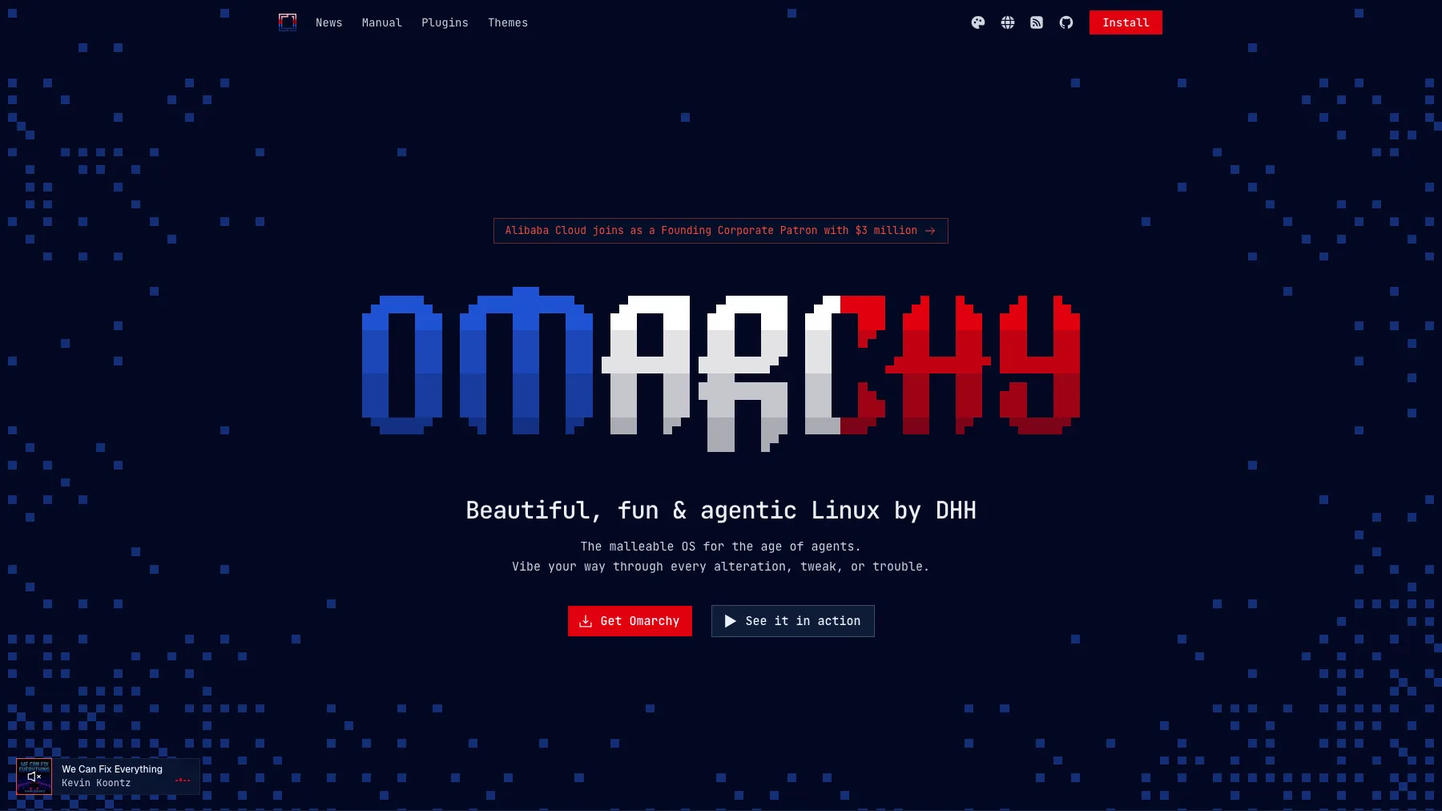
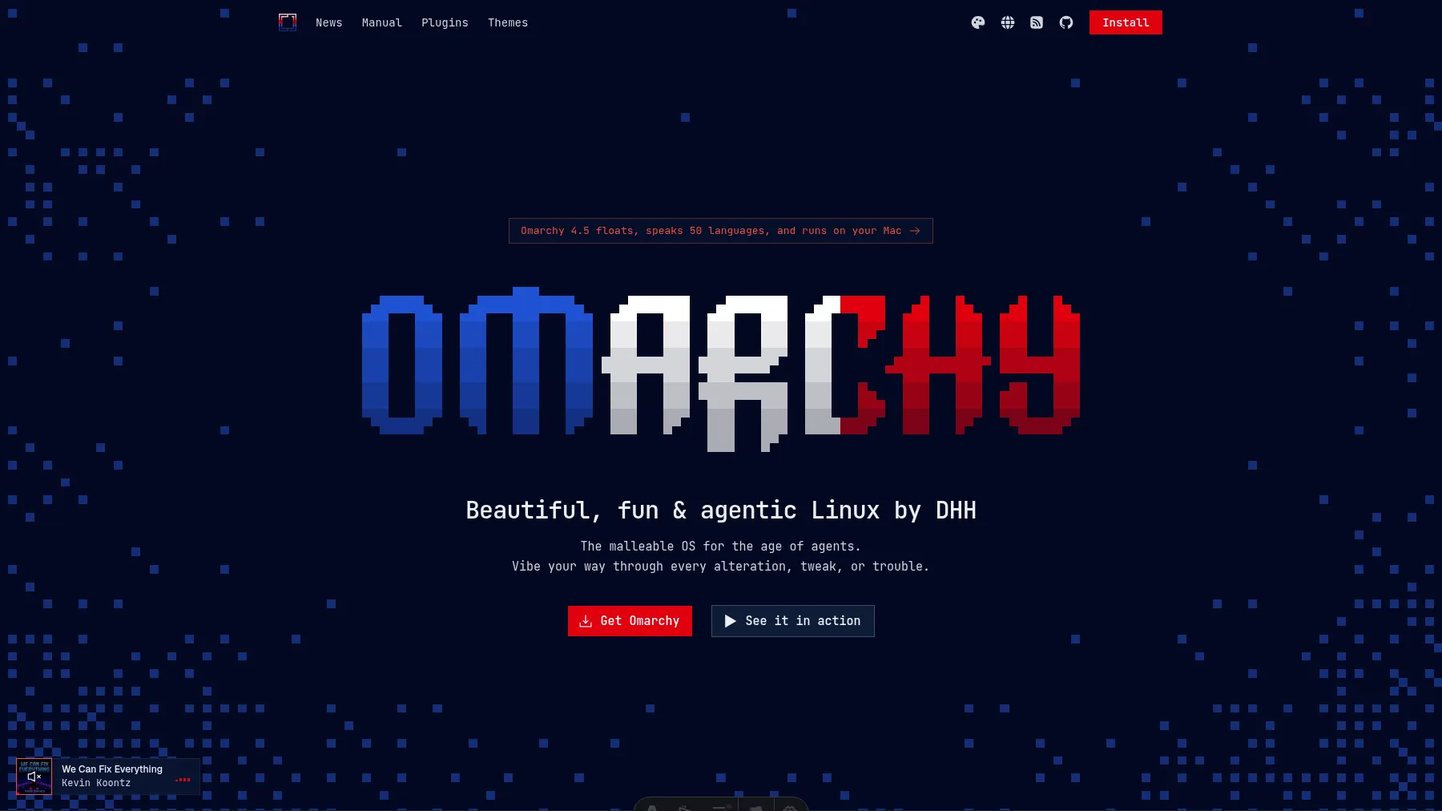
Shade full-height runs of a flag like the stock wordmark
A wordmark in one colour, a stripe or a hoist the word's full height
stepped in four even shades, where the stock wordmarks have five. Such
runs now take the stock bands, four, three, four, three and five rows,
from one shared list that the stock wordmark reads too. Shorter bands
keep their even steps. The 26 previews this changes are retaken.

diff --git a/src/national-themes.css b/src/national-themes.css
@@ -32,7 +32,7 @@ html[data-theme='andorra'],
   --t-field-lit: #fedf00;
   --t-field-hover: #feea59;
   --t-field-crest: #fff5b3;
-  --t-word: conic-gradient(at 32.099% 26.316%, transparent 0deg 270deg, #2e4fd9 270deg), conic-gradient(at 32.099% 52.632%, transparent 0deg 270deg, #2844bd 270deg), conic-gradient(at 32.099% 78.947%, transparent 0deg 270deg, #2139a2 270deg), conic-gradient(at 32.099% 100%, transparent 0deg 270deg, #1b2f86 270deg), conic-gradient(at 67.901% 26.316%, transparent 0deg 270deg, #fedf00 270deg), conic-gradient(at 67.901% 52.632%, transparent 0deg 270deg, #d8bf05 270deg), conic-gradient(at 67.901% 78.947%, transparent 0deg 270deg, #b39e0a 270deg), conic-gradient(at 67.901% 100%, transparent 0deg 270deg, #8d7e0f 270deg), linear-gradient(to bottom, #d0103a 0% 26.316%, #b10f36 26.316% 52.632%, #930d33 52.632% 78.947%, #740c2f 78.947% 100%);
+  --t-word: conic-gradient(at 32.099% 21.053%, transparent 0deg 270deg, #2e4fd9 270deg), conic-gradient(at 32.099% 36.842%, transparent 0deg 270deg, #2947c4 270deg), conic-gradient(at 32.099% 57.895%, transparent 0deg 270deg, #243fb0 270deg), conic-gradient(at 32.099% 73.684%, transparent 0deg 270deg, #1f379b 270deg), conic-gradient(at 32.099% 100%, transparent 0deg 270deg, #1b2f86 270deg), conic-gradient(at 67.901% 21.053%, transparent 0deg 270deg, #fedf00 270deg), conic-gradient(at 67.901% 36.842%, transparent 0deg 270deg, #e2c704 270deg), conic-gradient(at 67.901% 57.895%, transparent 0deg 270deg, #c6ae07 270deg), conic-gradient(at 67.901% 73.684%, transparent 0deg 270deg, #a9960b 270deg), conic-gradient(at 67.901% 100%, transparent 0deg 270deg, #8d7e0f 270deg), linear-gradient(to bottom, #d0103a 0% 21.053%, #b90f37 21.053% 36.842%, #a20e34 36.842% 57.895%, #8b0d32 57.895% 73.684%, #740c2f 73.684% 100%);
   --t-word-cells: cols #2e4fd9 #2e4fd9 #2e4fd9 #2e4fd9 #2e4fd9 #2e4fd9 #2e4fd9 #2e4fd9 #2e4fd9 #2e4fd9 #2e4fd9 #2e4fd9 #2e4fd9 #2e4fd9 #2e4fd9 #2e4fd9 #2e4fd9 #2e4fd9 #2e4fd9 #2e4fd9 #2e4fd9 #2e4fd9 #2e4fd9 #2e4fd9 #2e4fd9 #2e4fd9 #fedf00 #fedf00 #fedf00 #fedf00 #fedf00 #fedf00 #fedf00 #fedf00 #fedf00 #fedf00 #fedf00 #fedf00 #fedf00 #fedf00 #fedf00 #fedf00 #fedf00 #fedf00 #fedf00 #fedf00 #fedf00 #fedf00 #fedf00 #fedf00 #fedf00 #fedf00 #fedf00 #fedf00 #fedf00 #d0103a #d0103a #d0103a #d0103a #d0103a #d0103a #d0103a #d0103a #d0103a #d0103a #d0103a #d0103a #d0103a #d0103a #d0103a #d0103a #d0103a #d0103a #d0103a #d0103a #d0103a #d0103a #d0103a #d0103a #d0103a #d0103a;
   color-scheme: dark;
   --t-hdr-text-2: #d1dbff;
@@ -65,7 +65,7 @@ html[data-theme='emirates'],
   --t-field-lit: #ff0000;
   --t-field-hover: #ff5959;
   --t-field-crest: #ffb3b3;
-  --t-word: conic-gradient(at 13.58% 26.316%, transparent 0deg 270deg, #ff0000 270deg), conic-gradient(at 13.58% 52.632%, transparent 0deg 270deg, #d90200 270deg), conic-gradient(at 13.58% 78.947%, transparent 0deg 270deg, #b30501 270deg), conic-gradient(at 13.58% 100%, transparent 0deg 270deg, #8c0701 270deg), linear-gradient(to bottom, #00732f 0% 15.789%, #006529 15.789% 31.579%, #ffffff 31.579% 52.632%, #dfe1e0 52.632% 68.421%, #5f5f5f 68.421% 84.211%, #525452 84.211% 100%);
+  --t-word: conic-gradient(at 13.58% 21.053%, transparent 0deg 270deg, #ff0000 270deg), conic-gradient(at 13.58% 36.842%, transparent 0deg 270deg, #e20200 270deg), conic-gradient(at 13.58% 57.895%, transparent 0deg 270deg, #c60300 270deg), conic-gradient(at 13.58% 73.684%, transparent 0deg 270deg, #a90501 270deg), conic-gradient(at 13.58% 100%, transparent 0deg 270deg, #8c0701 270deg), linear-gradient(to bottom, #00732f 0% 15.789%, #006529 15.789% 31.579%, #ffffff 31.579% 52.632%, #dfe1e0 52.632% 68.421%, #5f5f5f 68.421% 84.211%, #525452 84.211% 100%);
   --t-word-cells: rows #00732f #00732f #00732f #00732f #00732f #00732f #ffffff #ffffff #ffffff #ffffff #ffffff #ffffff #ffffff #5f5f5f #5f5f5f #5f5f5f #5f5f5f #5f5f5f #5f5f5f;
   --t-word-hoist: #ff0000 11 19;
   color-scheme: dark;
@@ -99,7 +99,7 @@ html[data-theme='australia'],
   --t-field-lit: #ffffff;
   --t-field-hover: #ffffff;
   --t-field-crest: #ffffff;
-  --t-word: linear-gradient(to bottom, #ffffff 0% 26.316%, #e3e3e6 26.316% 52.632%, #c6c7cd 52.632% 78.947%, #aaacb4 78.947% 100%);
+  --t-word: linear-gradient(to bottom, #ffffff 0% 21.053%, #eaeaec 21.053% 36.842%, #d4d5da 36.842% 57.895%, #bfc0c7 57.895% 73.684%, #aaacb4 73.684% 100%);
   --t-word-cells: rows #ffffff #ffffff #ffffff #ffffff #ffffff #ffffff #ffffff #ffffff #ffffff #ffffff #ffffff #ffffff #ffffff #ffffff #ffffff #ffffff #ffffff #ffffff #ffffff;
   color-scheme: dark;
   --t-hdr-text-2: #d0dcff;
@@ -132,7 +132,7 @@ html[data-theme='bosna'],
   --t-field-lit: #ffffff;
   --t-field-hover: #ffffff;
   --t-field-crest: #ffffff;
-  --t-word: linear-gradient(to bottom, #fecb00 0% 26.316%, #d8ae05 26.316% 52.632%, #b2910a 52.632% 78.947%, #8d730f 78.947% 100%);
+  --t-word: linear-gradient(to bottom, #fecb00 0% 21.053%, #e2b504 21.053% 36.842%, #c59f07 36.842% 57.895%, #a9890b 57.895% 73.684%, #8d730f 73.684% 100%);
   --t-word-cells: rows #fecb00 #fecb00 #fecb00 #fecb00 #fecb00 #fecb00 #fecb00 #fecb00 #fecb00 #fecb00 #fecb00 #fecb00 #fecb00 #fecb00 #fecb00 #fecb00 #fecb00 #fecb00 #fecb00;
   color-scheme: dark;
   --t-hdr-text-2: #cfdcff;
@@ -165,7 +165,7 @@ html[data-theme='bangladesh'],
   --t-field-lit: #f42a41;
   --t-field-hover: #f87584;
   --t-field-crest: #fcbfc6;
-  --t-word: linear-gradient(to bottom, #f42a41 0% 26.316%, #cf2638 26.316% 52.632%, #ab2230 52.632% 78.947%, #861d27 78.947% 100%);
+  --t-word: linear-gradient(to bottom, #f42a41 0% 21.053%, #d9273b 21.053% 36.842%, #bd2434 36.842% 57.895%, #a2212e 57.895% 73.684%, #861d27 73.684% 100%);
   --t-word-cells: rows #f42a41 #f42a41 #f42a41 #f42a41 #f42a41 #f42a41 #f42a41 #f42a41 #f42a41 #f42a41 #f42a41 #f42a41 #f42a41 #f42a41 #f42a41 #f42a41 #f42a41 #f42a41 #f42a41;
   color-scheme: dark;
   --t-hdr-text-2: #c9e7d9;
@@ -231,7 +231,7 @@ html[data-theme='brasil'],
   --t-field-lit: #ffcb00;
   --t-field-hover: #ffdd59;
   --t-field-crest: #ffefb3;
-  --t-word: linear-gradient(to bottom, #ffcb00 0% 26.316%, #d9af00 26.316% 52.632%, #b39301 52.632% 78.947%, #8c7601 78.947% 100%);
+  --t-word: linear-gradient(to bottom, #ffcb00 0% 21.053%, #e2b600 21.053% 36.842%, #c6a100 36.842% 57.895%, #a98c01 57.895% 73.684%, #8c7601 73.684% 100%);
   --t-word-cells: rows #ffcb00 #ffcb00 #ffcb00 #ffcb00 #ffcb00 #ffcb00 #ffcb00 #ffcb00 #ffcb00 #ffcb00 #ffcb00 #ffcb00 #ffcb00 #ffcb00 #ffcb00 #ffcb00 #ffcb00 #ffcb00 #ffcb00;
   color-scheme: dark;
   --t-hdr-text-2: #cce7cf;
@@ -264,7 +264,7 @@ html[data-theme='zhongguo'],
   --t-field-lit: #ffde00;
   --t-field-hover: #ffea59;
   --t-field-crest: #fff5b3;
-  --t-word: linear-gradient(to bottom, #ffde00 0% 26.316%, #ddbd00 26.316% 52.632%, #bb9c00 52.632% 78.947%, #997b00 78.947% 100%);
+  --t-word: linear-gradient(to bottom, #ffde00 0% 21.053%, #e5c500 21.053% 36.842%, #ccac00 36.842% 57.895%, #b29300 57.895% 73.684%, #997b00 73.684% 100%);
   --t-word-cells: rows #ffde00 #ffde00 #ffde00 #ffde00 #ffde00 #ffde00 #ffde00 #ffde00 #ffde00 #ffde00 #ffde00 #ffde00 #ffde00 #ffde00 #ffde00 #ffde00 #ffde00 #ffde00 #ffde00;
   color-scheme: dark;
   --t-hdr-text-2: #fdd1cc;
@@ -297,7 +297,7 @@ html[data-theme='cesko'],
   --t-field-lit: #ffffff;
   --t-field-hover: #ffffff;
   --t-field-crest: #ffffff;
-  --t-word: conic-gradient(at 13.58% 26.316%, transparent 0deg 270deg, #1f5ea5 270deg), conic-gradient(at 13.58% 52.632%, transparent 0deg 270deg, #1b5190 270deg), conic-gradient(at 13.58% 78.947%, transparent 0deg 270deg, #16457b 270deg), conic-gradient(at 13.58% 100%, transparent 0deg 270deg, #123866 270deg), linear-gradient(to bottom, #ffffff 0% 21.053%, #e9e9ea 21.053% 36.842%, #d2d3d6 36.842% 52.632%, #d7141a 52.632% 68.421%, #c0131a 68.421% 84.211%, #aa121a 84.211% 100%);
+  --t-word: conic-gradient(at 13.58% 21.053%, transparent 0deg 270deg, #1f5ea5 270deg), conic-gradient(at 13.58% 36.842%, transparent 0deg 270deg, #1c5595 270deg), conic-gradient(at 13.58% 57.895%, transparent 0deg 270deg, #184b85 270deg), conic-gradient(at 13.58% 73.684%, transparent 0deg 270deg, #154275 270deg), conic-gradient(at 13.58% 100%, transparent 0deg 270deg, #123866 270deg), linear-gradient(to bottom, #ffffff 0% 21.053%, #e9e9ea 21.053% 36.842%, #d2d3d6 36.842% 52.632%, #d7141a 52.632% 68.421%, #c0131a 68.421% 84.211%, #aa121a 84.211% 100%);
   --t-word-cells: rows #ffffff #ffffff #ffffff #ffffff #ffffff #ffffff #ffffff #ffffff #ffffff #ffffff #d7141a #d7141a #d7141a #d7141a #d7141a #d7141a #d7141a #d7141a #d7141a;
   --t-word-hoist: #1f5ea5 11 19;
   color-scheme: dark;
@@ -433,7 +433,7 @@ html[data-theme='suomi'],
   --t-field-lit: #002f6c;
   --t-field-hover: #002554;
   --t-field-crest: #001a3b;
-  --t-word: linear-gradient(to bottom, #002f6c 0% 26.316%, #234b7f 26.316% 52.632%, #456792 52.632% 78.947%, #6882a5 78.947% 100%);
+  --t-word: linear-gradient(to bottom, #002f6c 0% 21.053%, #1a447a 21.053% 36.842%, #345989 36.842% 57.895%, #4e6d97 57.895% 73.684%, #6882a5 73.684% 100%);
   --t-word-cells: rows #002f6c #002f6c #002f6c #002f6c #002f6c #002f6c #002f6c #002f6c #002f6c #002f6c #002f6c #002f6c #002f6c #002f6c #002f6c #002f6c #002f6c #002f6c #002f6c;
   color-scheme: light;
   --t-hdr-text-2: #b9b5ae;
@@ -466,7 +466,7 @@ html[data-theme='france'],
   --t-field-lit: #e1000f;
   --t-field-hover: #ec5963;
   --t-field-crest: #f6b3b7;
-  --t-word: conic-gradient(at 33.333% 26.316%, transparent 0deg 270deg, #2052d3 270deg), conic-gradient(at 33.333% 52.632%, transparent 0deg 270deg, #1c47b8 270deg), conic-gradient(at 33.333% 78.947%, transparent 0deg 270deg, #173c9e 270deg), conic-gradient(at 33.333% 100%, transparent 0deg 270deg, #133183 270deg), conic-gradient(at 66.667% 26.316%, transparent 0deg 270deg, #ffffff 270deg), conic-gradient(at 66.667% 52.632%, transparent 0deg 270deg, #e3e3e6 270deg), conic-gradient(at 66.667% 78.947%, transparent 0deg 270deg, #c6c7cd 270deg), conic-gradient(at 66.667% 100%, transparent 0deg 270deg, #aaacb4 270deg), linear-gradient(to bottom, #e1000f 0% 26.316%, #c00112 26.316% 52.632%, #9e0214 52.632% 78.947%, #7d0417 78.947% 100%);
+  --t-word: conic-gradient(at 33.333% 21.053%, transparent 0deg 270deg, #2052d3 270deg), conic-gradient(at 33.333% 36.842%, transparent 0deg 270deg, #1d4abf 270deg), conic-gradient(at 33.333% 57.895%, transparent 0deg 270deg, #1941ab 270deg), conic-gradient(at 33.333% 73.684%, transparent 0deg 270deg, #163997 270deg), conic-gradient(at 33.333% 100%, transparent 0deg 270deg, #133183 270deg), conic-gradient(at 66.667% 21.053%, transparent 0deg 270deg, #ffffff 270deg), conic-gradient(at 66.667% 36.842%, transparent 0deg 270deg, #eaeaec 270deg), conic-gradient(at 66.667% 57.895%, transparent 0deg 270deg, #d4d5da 270deg), conic-gradient(at 66.667% 73.684%, transparent 0deg 270deg, #bfc0c7 270deg), conic-gradient(at 66.667% 100%, transparent 0deg 270deg, #aaacb4 270deg), linear-gradient(to bottom, #e1000f 0% 21.053%, #c80111 21.053% 36.842%, #af0213 36.842% 57.895%, #960315 57.895% 73.684%, #7d0417 73.684% 100%);
   --t-word-cells: cols #2052d3 #2052d3 #2052d3 #2052d3 #2052d3 #2052d3 #2052d3 #2052d3 #2052d3 #2052d3 #2052d3 #2052d3 #2052d3 #2052d3 #2052d3 #2052d3 #2052d3 #2052d3 #2052d3 #2052d3 #2052d3 #2052d3 #2052d3 #2052d3 #2052d3 #2052d3 #2052d3 #ffffff #ffffff #ffffff #ffffff #ffffff #ffffff #ffffff #ffffff #ffffff #ffffff #ffffff #ffffff #ffffff #ffffff #ffffff #ffffff #ffffff #ffffff #ffffff #ffffff #ffffff #ffffff #ffffff #ffffff #ffffff #ffffff #ffffff #e1000f #e1000f #e1000f #e1000f #e1000f #e1000f #e1000f #e1000f #e1000f #e1000f #e1000f #e1000f #e1000f #e1000f #e1000f #e1000f #e1000f #e1000f #e1000f #e1000f #e1000f #e1000f #e1000f #e1000f #e1000f #e1000f #e1000f;
   color-scheme: dark;
   --t-hdr-text-2: #d0dcff;
@@ -631,7 +631,7 @@ html[data-theme='eire'],
   --t-field-lit: #ff883e;
   --t-field-hover: #ffb282;
   --t-field-crest: #ffdbc5;
-  --t-word: conic-gradient(at 33.333% 26.316%, transparent 0deg 270deg, #169b62 270deg), conic-gradient(at 33.333% 52.632%, transparent 0deg 270deg, #138654 270deg), conic-gradient(at 33.333% 78.947%, transparent 0deg 270deg, #0f7146 270deg), conic-gradient(at 33.333% 100%, transparent 0deg 270deg, #0c5c38 270deg), conic-gradient(at 66.667% 26.316%, transparent 0deg 270deg, #ffffff 270deg), conic-gradient(at 66.667% 52.632%, transparent 0deg 270deg, #e2e4e3 270deg), conic-gradient(at 66.667% 78.947%, transparent 0deg 270deg, #c6c9c7 270deg), conic-gradient(at 66.667% 100%, transparent 0deg 270deg, #a9aeab 270deg), linear-gradient(to bottom, #ff883e 0% 26.316%, #d97635 26.316% 52.632%, #b3632d 52.632% 78.947%, #8c5124 78.947% 100%);
+  --t-word: conic-gradient(at 33.333% 21.053%, transparent 0deg 270deg, #169b62 270deg), conic-gradient(at 33.333% 36.842%, transparent 0deg 270deg, #148b58 270deg), conic-gradient(at 33.333% 57.895%, transparent 0deg 270deg, #117b4d 270deg), conic-gradient(at 33.333% 73.684%, transparent 0deg 270deg, #0f6b43 270deg), conic-gradient(at 33.333% 100%, transparent 0deg 270deg, #0c5c38 270deg), conic-gradient(at 66.667% 21.053%, transparent 0deg 270deg, #ffffff 270deg), conic-gradient(at 66.667% 36.842%, transparent 0deg 270deg, #e9ebea 270deg), conic-gradient(at 66.667% 57.895%, transparent 0deg 270deg, #d4d6d5 270deg), conic-gradient(at 66.667% 73.684%, transparent 0deg 270deg, #bec2c0 270deg), conic-gradient(at 66.667% 100%, transparent 0deg 270deg, #a9aeab 270deg), linear-gradient(to bottom, #ff883e 0% 21.053%, #e27a38 21.053% 36.842%, #c66d31 36.842% 57.895%, #a95f2b 57.895% 73.684%, #8c5124 73.684% 100%);
   --t-word-cells: cols #169b62 #169b62 #169b62 #169b62 #169b62 #169b62 #169b62 #169b62 #169b62 #169b62 #169b62 #169b62 #169b62 #169b62 #169b62 #169b62 #169b62 #169b62 #169b62 #169b62 #169b62 #169b62 #169b62 #169b62 #169b62 #169b62 #169b62 #ffffff #ffffff #ffffff #ffffff #ffffff #ffffff #ffffff #ffffff #ffffff #ffffff #ffffff #ffffff #ffffff #ffffff #ffffff #ffffff #ffffff #ffffff #ffffff #ffffff #ffffff #ffffff #ffffff #ffffff #ffffff #ffffff #ffffff #ff883e #ff883e #ff883e #ff883e #ff883e #ff883e #ff883e #ff883e #ff883e #ff883e #ff883e #ff883e #ff883e #ff883e #ff883e #ff883e #ff883e #ff883e #ff883e #ff883e #ff883e #ff883e #ff883e #ff883e #ff883e #ff883e #ff883e;
   color-scheme: dark;
   --t-hdr-text-2: #cae6d4;
@@ -666,7 +666,7 @@ html[data-theme='israel'],
   --t-field-lit: #0038b8;
   --t-field-hover: #002c90;
   --t-field-crest: #001f65;
-  --t-word: linear-gradient(to bottom, #0038b8 0% 26.316%, #2252c0 26.316% 52.632%, #456dc8 52.632% 78.947%, #6787d0 78.947% 100%);
+  --t-word: linear-gradient(to bottom, #0038b8 0% 21.053%, #1a4cbe 21.053% 36.842%, #3460c4 36.842% 57.895%, #4d73ca 57.895% 73.684%, #6787d0 73.684% 100%);
   --t-word-cells: rows #0038b8 #0038b8 #0038b8 #0038b8 #0038b8 #0038b8 #0038b8 #0038b8 #0038b8 #0038b8 #0038b8 #0038b8 #0038b8 #0038b8 #0038b8 #0038b8 #0038b8 #0038b8 #0038b8;
   color-scheme: light;
   --t-hdr-text-2: #b8b5b0;
@@ -799,7 +799,7 @@ html[data-theme='italia'],
   --t-field-lit: #ce2b37;
   --t-field-hover: #df757d;
   --t-field-crest: #f0bfc3;
-  --t-word: conic-gradient(at 33.333% 26.316%, transparent 0deg 270deg, #009246 270deg), conic-gradient(at 33.333% 52.632%, transparent 0deg 270deg, #007e3c 270deg), conic-gradient(at 33.333% 78.947%, transparent 0deg 270deg, #006a32 270deg), conic-gradient(at 33.333% 100%, transparent 0deg 270deg, #005728 270deg), conic-gradient(at 66.667% 26.316%, transparent 0deg 270deg, #f4f5f0 270deg), conic-gradient(at 66.667% 52.632%, transparent 0deg 270deg, #d9dbd5 270deg), conic-gradient(at 66.667% 78.947%, transparent 0deg 270deg, #bdc1bb 270deg), conic-gradient(at 66.667% 100%, transparent 0deg 270deg, #a2a7a0 270deg), linear-gradient(to bottom, #ce2b37 0% 26.316%, #af272f 26.316% 52.632%, #902227 52.632% 78.947%, #711e20 78.947% 100%);
+  --t-word: conic-gradient(at 33.333% 21.053%, transparent 0deg 270deg, #009246 270deg), conic-gradient(at 33.333% 36.842%, transparent 0deg 270deg, #00833e 270deg), conic-gradient(at 33.333% 57.895%, transparent 0deg 270deg, #007437 270deg), conic-gradient(at 33.333% 73.684%, transparent 0deg 270deg, #00652f 270deg), conic-gradient(at 33.333% 100%, transparent 0deg 270deg, #005728 270deg), conic-gradient(at 66.667% 21.053%, transparent 0deg 270deg, #f4f5f0 270deg), conic-gradient(at 66.667% 36.842%, transparent 0deg 270deg, #dfe2dc 270deg), conic-gradient(at 66.667% 57.895%, transparent 0deg 270deg, #cbcec8 270deg), conic-gradient(at 66.667% 73.684%, transparent 0deg 270deg, #b6bbb4 270deg), conic-gradient(at 66.667% 100%, transparent 0deg 270deg, #a2a7a0 270deg), linear-gradient(to bottom, #ce2b37 0% 21.053%, #b72831 21.053% 36.842%, #a0242b 36.842% 57.895%, #882125 57.895% 73.684%, #711e20 73.684% 100%);
   --t-word-cells: cols #009246 #009246 #009246 #009246 #009246 #009246 #009246 #009246 #009246 #009246 #009246 #009246 #009246 #009246 #009246 #009246 #009246 #009246 #009246 #009246 #009246 #009246 #009246 #009246 #009246 #009246 #009246 #f4f5f0 #f4f5f0 #f4f5f0 #f4f5f0 #f4f5f0 #f4f5f0 #f4f5f0 #f4f5f0 #f4f5f0 #f4f5f0 #f4f5f0 #f4f5f0 #f4f5f0 #f4f5f0 #f4f5f0 #f4f5f0 #f4f5f0 #f4f5f0 #f4f5f0 #f4f5f0 #f4f5f0 #f4f5f0 #f4f5f0 #f4f5f0 #f4f5f0 #f4f5f0 #f4f5f0 #ce2b37 #ce2b37 #ce2b37 #ce2b37 #ce2b37 #ce2b37 #ce2b37 #ce2b37 #ce2b37 #ce2b37 #ce2b37 #ce2b37 #ce2b37 #ce2b37 #ce2b37 #ce2b37 #ce2b37 #ce2b37 #ce2b37 #ce2b37 #ce2b37 #ce2b37 #ce2b37 #ce2b37 #ce2b37 #ce2b37 #ce2b37;
   color-scheme: dark;
   --t-hdr-text-2: #cbe6d1;
@@ -834,7 +834,7 @@ html[data-theme='nippon'],
   --t-field-lit: #bc002d;
   --t-field-hover: #930023;
   --t-field-crest: #670019;
-  --t-word: linear-gradient(to bottom, #bc002d 0% 26.316%, #c32349 26.316% 52.632%, #cb4564 52.632% 78.947%, #d26880 78.947% 100%);
+  --t-word: linear-gradient(to bottom, #bc002d 0% 21.053%, #c21a42 21.053% 36.842%, #c73456 36.842% 57.895%, #cd4e6b 57.895% 73.684%, #d26880 73.684% 100%);
   --t-word-cells: rows #bc002d #bc002d #bc002d #bc002d #bc002d #bc002d #bc002d #bc002d #bc002d #bc002d #bc002d #bc002d #bc002d #bc002d #bc002d #bc002d #bc002d #bc002d #bc002d;
   color-scheme: light;
   --t-hdr-text-2: #b0b7b7;
@@ -902,7 +902,7 @@ html[data-theme='srilanka'],
   --t-field-lit: #ffbe29;
   --t-field-hover: #ffd574;
   --t-field-crest: #ffecbf;
-  --t-word: linear-gradient(to bottom, #ffbe29 0% 26.316%, #dda224 26.316% 52.632%, #ba861f 52.632% 78.947%, #986919 78.947% 100%);
+  --t-word: linear-gradient(to bottom, #ffbe29 0% 21.053%, #e5a925 21.053% 36.842%, #cb9421 36.842% 57.895%, #b17f1d 57.895% 73.684%, #986919 73.684% 100%);
   --t-word-cells: rows #ffbe29 #ffbe29 #ffbe29 #ffbe29 #ffbe29 #ffbe29 #ffbe29 #ffbe29 #ffbe29 #ffbe29 #ffbe29 #ffbe29 #ffbe29 #ffbe29 #ffbe29 #ffbe29 #ffbe29 #ffbe29 #ffbe29;
   color-scheme: dark;
   --t-hdr-text-2: #fad1d7;
@@ -1001,7 +1001,7 @@ html[data-theme='mexico'],
   --t-field-lit: #ce1126;
   --t-field-hover: #df6472;
   --t-field-crest: #f0b8be;
-  --t-word: conic-gradient(at 33.333% 26.316%, transparent 0deg 270deg, #036d4b 270deg), conic-gradient(at 33.333% 52.632%, transparent 0deg 270deg, #035f41 270deg), conic-gradient(at 33.333% 78.947%, transparent 0deg 270deg, #025137 270deg), conic-gradient(at 33.333% 100%, transparent 0deg 270deg, #02422c 270deg), conic-gradient(at 66.667% 26.316%, transparent 0deg 270deg, #ffffff 270deg), conic-gradient(at 66.667% 52.632%, transparent 0deg 270deg, #e2e4e3 270deg), conic-gradient(at 66.667% 78.947%, transparent 0deg 270deg, #c6c9c7 270deg), conic-gradient(at 66.667% 100%, transparent 0deg 270deg, #a9aeab 270deg), linear-gradient(to bottom, #ce1126 0% 26.316%, #af1121 26.316% 52.632%, #91101d 52.632% 78.947%, #721018 78.947% 100%);
+  --t-word: conic-gradient(at 33.333% 21.053%, transparent 0deg 270deg, #036d4b 270deg), conic-gradient(at 33.333% 36.842%, transparent 0deg 270deg, #036243 270deg), conic-gradient(at 33.333% 57.895%, transparent 0deg 270deg, #03583c 270deg), conic-gradient(at 33.333% 73.684%, transparent 0deg 270deg, #024d34 270deg), conic-gradient(at 33.333% 100%, transparent 0deg 270deg, #02422c 270deg), conic-gradient(at 66.667% 21.053%, transparent 0deg 270deg, #ffffff 270deg), conic-gradient(at 66.667% 36.842%, transparent 0deg 270deg, #eaebea 270deg), conic-gradient(at 66.667% 57.895%, transparent 0deg 270deg, #d4d6d5 270deg), conic-gradient(at 66.667% 73.684%, transparent 0deg 270deg, #bfc2c0 270deg), conic-gradient(at 66.667% 100%, transparent 0deg 270deg, #a9aeab 270deg), linear-gradient(to bottom, #ce1126 0% 21.053%, #b71123 21.053% 36.842%, #a0101f 36.842% 57.895%, #89101c 57.895% 73.684%, #721018 73.684% 100%);
   --t-word-cells: cols #036d4b #036d4b #036d4b #036d4b #036d4b #036d4b #036d4b #036d4b #036d4b #036d4b #036d4b #036d4b #036d4b #036d4b #036d4b #036d4b #036d4b #036d4b #036d4b #036d4b #036d4b #036d4b #036d4b #036d4b #036d4b #036d4b #036d4b #ffffff #ffffff #ffffff #ffffff #ffffff #ffffff #ffffff #ffffff #ffffff #ffffff #ffffff #ffffff #ffffff #ffffff #ffffff #ffffff #ffffff #ffffff #ffffff #ffffff #ffffff #ffffff #ffffff #ffffff #ffffff #ffffff #ffffff #ce1126 #ce1126 #ce1126 #ce1126 #ce1126 #ce1126 #ce1126 #ce1126 #ce1126 #ce1126 #ce1126 #ce1126 #ce1126 #ce1126 #ce1126 #ce1126 #ce1126 #ce1126 #ce1126 #ce1126 #ce1126 #ce1126 #ce1126 #ce1126 #ce1126 #ce1126 #ce1126;
   color-scheme: dark;
   --t-hdr-text-2: #cae7d7;
@@ -1068,7 +1068,7 @@ html[data-theme='nigeria'],
   --t-field-lit: #ffffff;
   --t-field-hover: #ffffff;
   --t-field-crest: #ffffff;
-  --t-word: conic-gradient(at 33.333% 26.316%, transparent 0deg 270deg, #008751 270deg), conic-gradient(at 33.333% 52.632%, transparent 0deg 270deg, #007546 270deg), conic-gradient(at 33.333% 78.947%, transparent 0deg 270deg, #00633a 270deg), conic-gradient(at 33.333% 100%, transparent 0deg 270deg, #00512f 270deg), conic-gradient(at 66.667% 26.316%, transparent 0deg 270deg, #ffffff 270deg), conic-gradient(at 66.667% 52.632%, transparent 0deg 270deg, #e2e4e3 270deg), conic-gradient(at 66.667% 78.947%, transparent 0deg 270deg, #c6c9c7 270deg), conic-gradient(at 66.667% 100%, transparent 0deg 270deg, #a9aeab 270deg), linear-gradient(to bottom, #008751 0% 26.316%, #007546 26.316% 52.632%, #00633a 52.632% 78.947%, #00512f 78.947% 100%);
+  --t-word: conic-gradient(at 33.333% 21.053%, transparent 0deg 270deg, #008751 270deg), conic-gradient(at 33.333% 36.842%, transparent 0deg 270deg, #007948 270deg), conic-gradient(at 33.333% 57.895%, transparent 0deg 270deg, #006c40 270deg), conic-gradient(at 33.333% 73.684%, transparent 0deg 270deg, #005e37 270deg), conic-gradient(at 33.333% 100%, transparent 0deg 270deg, #00512f 270deg), conic-gradient(at 66.667% 21.053%, transparent 0deg 270deg, #ffffff 270deg), conic-gradient(at 66.667% 36.842%, transparent 0deg 270deg, #e9ebea 270deg), conic-gradient(at 66.667% 57.895%, transparent 0deg 270deg, #d4d6d5 270deg), conic-gradient(at 66.667% 73.684%, transparent 0deg 270deg, #bec2c0 270deg), conic-gradient(at 66.667% 100%, transparent 0deg 270deg, #a9aeab 270deg), linear-gradient(to bottom, #008751 0% 21.053%, #007948 21.053% 36.842%, #006c40 36.842% 57.895%, #005e37 57.895% 73.684%, #00512f 73.684% 100%);
   --t-word-cells: cols #008751 #008751 #008751 #008751 #008751 #008751 #008751 #008751 #008751 #008751 #008751 #008751 #008751 #008751 #008751 #008751 #008751 #008751 #008751 #008751 #008751 #008751 #008751 #008751 #008751 #008751 #008751 #ffffff #ffffff #ffffff #ffffff #ffffff #ffffff #ffffff #ffffff #ffffff #ffffff #ffffff #ffffff #ffffff #ffffff #ffffff #ffffff #ffffff #ffffff #ffffff #ffffff #ffffff #ffffff #ffffff #ffffff #ffffff #ffffff #ffffff #008751 #008751 #008751 #008751 #008751 #008751 #008751 #008751 #008751 #008751 #008751 #008751 #008751 #008751 #008751 #008751 #008751 #008751 #008751 #008751 #008751 #008751 #008751 #008751 #008751 #008751 #008751;
   color-scheme: dark;
   --t-hdr-text-2: #cae6d4;
@@ -1168,7 +1168,7 @@ html[data-theme='new-zealand'],
   --t-field-lit: #cc142b;
   --t-field-hover: #de6675;
   --t-field-crest: #f0b9bf;
-  --t-word: linear-gradient(to bottom, #cc142b 0% 26.316%, #ae1229 26.316% 52.632%, #8f1127 52.632% 78.947%, #710f25 78.947% 100%);
+  --t-word: linear-gradient(to bottom, #cc142b 0% 21.053%, #b51329 21.053% 36.842%, #9f1228 36.842% 57.895%, #881026 57.895% 73.684%, #710f25 73.684% 100%);
   --t-word-cells: rows #cc142b #cc142b #cc142b #cc142b #cc142b #cc142b #cc142b #cc142b #cc142b #cc142b #cc142b #cc142b #cc142b #cc142b #cc142b #cc142b #cc142b #cc142b #cc142b;
   color-scheme: dark;
   --t-hdr-text-2: #cfdeff;
@@ -1201,7 +1201,7 @@ html[data-theme='pilipinas'],
   --t-field-lit: #fcd116;
   --t-field-hover: #fde168;
   --t-field-crest: #fef1b9;
-  --t-word: conic-gradient(at 13.58% 26.316%, transparent 0deg 270deg, #ffffff 270deg), conic-gradient(at 13.58% 52.632%, transparent 0deg 270deg, #e2e3e6 270deg), conic-gradient(at 13.58% 78.947%, transparent 0deg 270deg, #c6c7cd 270deg), conic-gradient(at 13.58% 100%, transparent 0deg 270deg, #a9acb4 270deg), linear-gradient(to bottom, #1f56c8 0% 21.053%, #1b4db4 21.053% 36.842%, #1844a0 36.842% 52.632%, #ce1126 52.632% 68.421%, #b81025 68.421% 84.211%, #a20f25 84.211% 100%);
+  --t-word: conic-gradient(at 13.58% 21.053%, transparent 0deg 270deg, #ffffff 270deg), conic-gradient(at 13.58% 36.842%, transparent 0deg 270deg, #eaeaec 270deg), conic-gradient(at 13.58% 57.895%, transparent 0deg 270deg, #d4d5da 270deg), conic-gradient(at 13.58% 73.684%, transparent 0deg 270deg, #bfc0c7 270deg), conic-gradient(at 13.58% 100%, transparent 0deg 270deg, #a9acb4 270deg), linear-gradient(to bottom, #1f56c8 0% 21.053%, #1b4db4 21.053% 36.842%, #1844a0 36.842% 52.632%, #ce1126 52.632% 68.421%, #b81025 68.421% 84.211%, #a20f25 84.211% 100%);
   --t-word-cells: rows #1f56c8 #1f56c8 #1f56c8 #1f56c8 #1f56c8 #1f56c8 #1f56c8 #1f56c8 #1f56c8 #1f56c8 #ce1126 #ce1126 #ce1126 #ce1126 #ce1126 #ce1126 #ce1126 #ce1126 #ce1126;
   --t-word-hoist: #ffffff 11 19;
   color-scheme: dark;
@@ -1235,7 +1235,7 @@ html[data-theme='pakistan'],
   --t-field-lit: #ffffff;
   --t-field-hover: #ffffff;
   --t-field-crest: #ffffff;
-  --t-word: linear-gradient(to bottom, #ffffff 0% 26.316%, #e3e4e3 26.316% 52.632%, #c6c9c7 52.632% 78.947%, #aaadab 78.947% 100%);
+  --t-word: linear-gradient(to bottom, #ffffff 0% 21.053%, #eaebea 21.053% 36.842%, #d4d6d5 36.842% 57.895%, #bfc2c0 57.895% 73.684%, #aaadab 73.684% 100%);
   --t-word-cells: rows #ffffff #ffffff #ffffff #ffffff #ffffff #ffffff #ffffff #ffffff #ffffff #ffffff #ffffff #ffffff #ffffff #ffffff #ffffff #ffffff #ffffff #ffffff #ffffff;
   color-scheme: dark;
   --t-hdr-text-2: #cee5d3;
@@ -1301,7 +1301,7 @@ html[data-theme='portugal'],
   --t-field-lit: #ffe900;
   --t-field-hover: #fff159;
   --t-field-crest: #fff8b3;
-  --t-word: conic-gradient(at 39.506% 26.316%, transparent 0deg 270deg, #006d39 270deg), conic-gradient(at 39.506% 52.632%, transparent 0deg 270deg, #005f31 270deg), conic-gradient(at 39.506% 78.947%, transparent 0deg 270deg, #005129 270deg), conic-gradient(at 39.506% 100%, transparent 0deg 270deg, #004221 270deg), linear-gradient(to bottom, #da291c 0% 26.316%, #b92518 26.316% 52.632%, #992115 52.632% 78.947%, #781d11 78.947% 100%);
+  --t-word: conic-gradient(at 39.506% 21.053%, transparent 0deg 270deg, #006d39 270deg), conic-gradient(at 39.506% 36.842%, transparent 0deg 270deg, #006233 270deg), conic-gradient(at 39.506% 57.895%, transparent 0deg 270deg, #00582d 270deg), conic-gradient(at 39.506% 73.684%, transparent 0deg 270deg, #004d27 270deg), conic-gradient(at 39.506% 100%, transparent 0deg 270deg, #004221 270deg), linear-gradient(to bottom, #da291c 0% 21.053%, #c22619 21.053% 36.842%, #a92317 36.842% 57.895%, #912014 57.895% 73.684%, #781d11 73.684% 100%);
   --t-word-cells: cols #006d39 #006d39 #006d39 #006d39 #006d39 #006d39 #006d39 #006d39 #006d39 #006d39 #006d39 #006d39 #006d39 #006d39 #006d39 #006d39 #006d39 #006d39 #006d39 #006d39 #006d39 #006d39 #006d39 #006d39 #006d39 #006d39 #006d39 #006d39 #006d39 #006d39 #006d39 #006d39 #da291c #da291c #da291c #da291c #da291c #da291c #da291c #da291c #da291c #da291c #da291c #da291c #da291c #da291c #da291c #da291c #da291c #da291c #da291c #da291c #da291c #da291c #da291c #da291c #da291c #da291c #da291c #da291c #da291c #da291c #da291c #da291c #da291c #da291c #da291c #da291c #da291c #da291c #da291c #da291c #da291c #da291c #da291c #da291c #da291c #da291c #da291c #da291c #da291c;
   color-scheme: dark;
   --t-hdr-text-2: #cce6d2;
@@ -1334,7 +1334,7 @@ html[data-theme='romania'],
   --t-field-lit: #fcd116;
   --t-field-hover: #fde168;
   --t-field-crest: #fef1b9;
-  --t-word: conic-gradient(at 33.333% 26.316%, transparent 0deg 270deg, #2d5bb3 270deg), conic-gradient(at 33.333% 52.632%, transparent 0deg 270deg, #274f9c 270deg), conic-gradient(at 33.333% 78.947%, transparent 0deg 270deg, #204286 270deg), conic-gradient(at 33.333% 100%, transparent 0deg 270deg, #1a366f 270deg), conic-gradient(at 66.667% 26.316%, transparent 0deg 270deg, #fcd116 270deg), conic-gradient(at 66.667% 52.632%, transparent 0deg 270deg, #d7b317 270deg), conic-gradient(at 66.667% 78.947%, transparent 0deg 270deg, #b19518 270deg), conic-gradient(at 66.667% 100%, transparent 0deg 270deg, #8c7719 270deg), linear-gradient(to bottom, #ce1126 0% 26.316%, #af1025 26.316% 52.632%, #910f23 52.632% 78.947%, #720d22 78.947% 100%);
+  --t-word: conic-gradient(at 33.333% 21.053%, transparent 0deg 270deg, #2d5bb3 270deg), conic-gradient(at 33.333% 36.842%, transparent 0deg 270deg, #2852a2 270deg), conic-gradient(at 33.333% 57.895%, transparent 0deg 270deg, #234991 270deg), conic-gradient(at 33.333% 73.684%, transparent 0deg 270deg, #1e3f80 270deg), conic-gradient(at 33.333% 100%, transparent 0deg 270deg, #1a366f 270deg), conic-gradient(at 66.667% 21.053%, transparent 0deg 270deg, #fcd116 270deg), conic-gradient(at 66.667% 36.842%, transparent 0deg 270deg, #e0bb17 270deg), conic-gradient(at 66.667% 57.895%, transparent 0deg 270deg, #c4a417 270deg), conic-gradient(at 66.667% 73.684%, transparent 0deg 270deg, #a88e18 270deg), conic-gradient(at 66.667% 100%, transparent 0deg 270deg, #8c7719 270deg), linear-gradient(to bottom, #ce1126 0% 21.053%, #b71025 21.053% 36.842%, #a00f24 36.842% 57.895%, #890e23 57.895% 73.684%, #720d22 73.684% 100%);
   --t-word-cells: cols #2d5bb3 #2d5bb3 #2d5bb3 #2d5bb3 #2d5bb3 #2d5bb3 #2d5bb3 #2d5bb3 #2d5bb3 #2d5bb3 #2d5bb3 #2d5bb3 #2d5bb3 #2d5bb3 #2d5bb3 #2d5bb3 #2d5bb3 #2d5bb3 #2d5bb3 #2d5bb3 #2d5bb3 #2d5bb3 #2d5bb3 #2d5bb3 #2d5bb3 #2d5bb3 #2d5bb3 #fcd116 #fcd116 #fcd116 #fcd116 #fcd116 #fcd116 #fcd116 #fcd116 #fcd116 #fcd116 #fcd116 #fcd116 #fcd116 #fcd116 #fcd116 #fcd116 #fcd116 #fcd116 #fcd116 #fcd116 #fcd116 #fcd116 #fcd116 #fcd116 #fcd116 #fcd116 #fcd116 #ce1126 #ce1126 #ce1126 #ce1126 #ce1126 #ce1126 #ce1126 #ce1126 #ce1126 #ce1126 #ce1126 #ce1126 #ce1126 #ce1126 #ce1126 #ce1126 #ce1126 #ce1126 #ce1126 #ce1126 #ce1126 #ce1126 #ce1126 #ce1126 #ce1126 #ce1126 #ce1126;
   color-scheme: dark;
   --t-hdr-text-2: #cfdefe;
@@ -1599,7 +1599,7 @@ html[data-theme='turkiye'],
   --t-field-lit: #ffffff;
   --t-field-hover: #ffffff;
   --t-field-crest: #ffffff;
-  --t-word: linear-gradient(to bottom, #ffffff 0% 26.316%, #e5e2e2 26.316% 52.632%, #ccc6c6 52.632% 78.947%, #b2a9a9 78.947% 100%);
+  --t-word: linear-gradient(to bottom, #ffffff 0% 21.053%, #eceaea 21.053% 36.842%, #d9d4d4 36.842% 57.895%, #c6bfbf 57.895% 73.684%, #b2a9a9 73.684% 100%);
   --t-word-cells: rows #ffffff #ffffff #ffffff #ffffff #ffffff #ffffff #ffffff #ffffff #ffffff #ffffff #ffffff #ffffff #ffffff #ffffff #ffffff #ffffff #ffffff #ffffff #ffffff;
   color-scheme: dark;
   --t-hdr-text-2: #fdd1ce;
@@ -1632,7 +1632,7 @@ html[data-theme='taiwan'],
   --t-field-lit: #ffffff;
   --t-field-hover: #ffffff;
   --t-field-crest: #ffffff;
-  --t-word: conic-gradient(at 33.333% 21.053%, transparent 0deg 270deg, #1f51d6 270deg), conic-gradient(at 33.333% 42.105%, transparent 0deg 270deg, #1f47ba 270deg), conic-gradient(at 33.333% 57.895%, transparent 0deg 270deg, #1e3c9f 270deg), linear-gradient(to bottom, #fe0000 0% 26.316%, #dc0000 26.316% 52.632%, #ba0000 52.632% 78.947%, #980000 78.947% 100%);
+  --t-word: conic-gradient(at 33.333% 21.053%, transparent 0deg 270deg, #1f51d6 270deg), conic-gradient(at 33.333% 42.105%, transparent 0deg 270deg, #1f47ba 270deg), conic-gradient(at 33.333% 57.895%, transparent 0deg 270deg, #1e3c9f 270deg), linear-gradient(to bottom, #fe0000 0% 21.053%, #e50000 21.053% 36.842%, #cb0000 36.842% 57.895%, #b20000 57.895% 73.684%, #980000 73.684% 100%);
   --t-word-cells: rows #fe0000 #fe0000 #fe0000 #fe0000 #fe0000 #fe0000 #fe0000 #fe0000 #fe0000 #fe0000 #fe0000 #fe0000 #fe0000 #fe0000 #fe0000 #fe0000 #fe0000 #fe0000 #fe0000;
   --t-word-hoist: #1f51d6 27 11;
   color-scheme: dark;
@@ -1799,7 +1799,7 @@ html[data-theme='vietnam'],
   --t-field-lit: #ffff00;
   --t-field-hover: #ffff59;
   --t-field-crest: #ffffb3;
-  --t-word: linear-gradient(to bottom, #ffff00 0% 26.316%, #ddd900 26.316% 52.632%, #bbb300 52.632% 78.947%, #998d00 78.947% 100%);
+  --t-word: linear-gradient(to bottom, #ffff00 0% 21.053%, #e5e200 21.053% 36.842%, #ccc600 36.842% 57.895%, #b2a900 57.895% 73.684%, #998d00 73.684% 100%);
   --t-word-cells: rows #ffff00 #ffff00 #ffff00 #ffff00 #ffff00 #ffff00 #ffff00 #ffff00 #ffff00 #ffff00 #ffff00 #ffff00 #ffff00 #ffff00 #ffff00 #ffff00 #ffff00 #ffff00 #ffff00;
   color-scheme: dark;
   --t-hdr-text-2: #fdd1ce;
@@ -1832,7 +1832,7 @@ html[data-theme='zimbabwe'],
   --t-field-lit: #ffd200;
   --t-field-hover: #ffe259;
   --t-field-crest: #fff2b3;
-  --t-word: conic-gradient(at 13.58% 26.316%, transparent 0deg 270deg, #ffffff 270deg), conic-gradient(at 13.58% 52.632%, transparent 0deg 270deg, #e2e4e2 270deg), conic-gradient(at 13.58% 78.947%, transparent 0deg 270deg, #c6c9c6 270deg), conic-gradient(at 13.58% 100%, transparent 0deg 270deg, #a9aea9 270deg), linear-gradient(to bottom, #319208 0% 15.789%, #ffd200 15.789% 31.579%, #de2010 31.579% 42.105%, #5f5f5f 42.105% 57.895%, #de2010 57.895% 68.421%, #ffd200 68.421% 84.211%, #319208 84.211% 100%);
+  --t-word: conic-gradient(at 13.58% 21.053%, transparent 0deg 270deg, #ffffff 270deg), conic-gradient(at 13.58% 36.842%, transparent 0deg 270deg, #eaebe9 270deg), conic-gradient(at 13.58% 57.895%, transparent 0deg 270deg, #d4d6d4 270deg), conic-gradient(at 13.58% 73.684%, transparent 0deg 270deg, #bfc2be 270deg), conic-gradient(at 13.58% 100%, transparent 0deg 270deg, #a9aea9 270deg), linear-gradient(to bottom, #319208 0% 15.789%, #ffd200 15.789% 31.579%, #de2010 31.579% 42.105%, #5f5f5f 42.105% 57.895%, #de2010 57.895% 68.421%, #ffd200 68.421% 84.211%, #319208 84.211% 100%);
   --t-word-cells: rows #319208 #319208 #319208 #ffd200 #ffd200 #ffd200 #de2010 #de2010 #5f5f5f #5f5f5f #5f5f5f #de2010 #de2010 #ffd200 #ffd200 #ffd200 #319208 #319208 #319208;
   --t-word-hoist: #ffffff 11 19;
   color-scheme: dark;

diff --git a/src/lib/word-shade.ts b/src/lib/word-shade.ts
@@ -12,6 +12,11 @@
 export const WORD_ROWS = 19
 export const WORD_COLUMNS = 81
 
+/** The stock wordmark's bands, top to bottom, in rows: crest, hover, lit,
+ *  mid and dim. A run of one colour the word's full height steps the same
+ *  way, so a one-colour flag shades like the stock themes. */
+export const WORD_BANDS = [4, 3, 4, 3, 5] as const
+
 /** Each step is at least this many rows, and a run has at most this many
  *  steps: a run under two steps tall stays flat. */
 const STEP_ROWS = 3
@@ -43,14 +48,18 @@ export function mixHex(from: string, to: string, t: number) {
   return `#${channel(16)}${channel(8)}${channel(0)}`
 }
 
-/**
- * How far toward the field a colour moves at a row of its run: 0 for the
- * first step, more for each one below. The run is cut into steps of near
- * equal height, the taller ones first.
- */
-export function shadeAt(color: string, position: number, height: number) {
+/** A full-height run's step at a row: the stock bands. */
+function stockStep(position: number) {
+  let step = 0
+  for (let edge = WORD_BANDS[0]; position >= edge;) edge += WORD_BANDS[++step]
+  return { step, steps: WORD_BANDS.length }
+}
+
+/** A shorter run's step at a row: steps of near equal height, the taller
+ *  ones first. */
+function evenStep(position: number, height: number) {
   const steps = Math.min(MAX_STEPS, Math.floor(height / STEP_ROWS))
-  if (steps < 2) return 0
+  if (steps < 2) return { step: 0, steps }
   const tall = Math.ceil(height / steps)
   const extra = height - (tall - 1) * steps
   // The first `extra` steps are `tall` rows; the rest one fewer.
@@ -58,6 +67,18 @@ export function shadeAt(color: string, position: number, height: number) {
     position < extra * tall
       ? Math.floor(position / tall)
       : extra + Math.floor((position - extra * tall) / (tall - 1))
+  return { step, steps }
+}
+
+/**
+ * How far toward the field a colour moves at a row of its run: 0 for the
+ * first step, more for each one below. A run the word's full height steps
+ * like the stock bands; a shorter one is cut into near-equal steps.
+ */
+export function shadeAt(color: string, position: number, height: number) {
+  const { step, steps } =
+    height === WORD_ROWS ? stockStep(position) : evenStep(position, height)
+  if (steps < 2) return 0
   const depth = DEPTH * (height / WORD_ROWS) * (isPale(color) ? PALE_DEPTH : 1)
   return (depth * step) / (steps - 1)
 }

diff --git a/src/components/Brand.tsx b/src/components/Brand.tsx
@@ -1,5 +1,6 @@
 import { NOT_FOUND_HEIGHT, NOT_FOUND_WIDTH } from '@/data/not-found-bitmap'
 import { cn } from '@/lib/utils'
+import { WORD_BANDS } from '@/lib/word-shade'
 
 /** The square-spiral glyph from public/brand/omarchy-logo.svg, inlined. The
  *  favicon is drawn from this same path, so the two cannot drift apart. */
@@ -25,13 +26,9 @@ export function OmarchyMark({ className }: { className?: string }) {
 }
 
 /** Brand gradient bands as wordmark pixel rows, shared by wordmark and mark. */
-const BRAND_BANDS: [color: string, rows: number][] = [
-  ['var(--t-field-crest)', 4],
-  ['var(--t-field-hover)', 3],
-  ['var(--t-field-lit)', 4],
-  ['var(--t-field-mid)', 3],
-  ['var(--t-field-dim)', 5],
-]
+const BRAND_BANDS: [color: string, rows: number][] = (
+  ['crest', 'hover', 'lit', 'mid', 'dim'] as const
+).map((name, i) => [`var(--t-field-${name})`, WORD_BANDS[i]])
 const BAND_ROWS = BRAND_BANDS.reduce((sum, [, rows]) => sum + rows, 0)
 
 /** Band edges in percent of the height. */

diff --git a/src/components/HeroPixelField.tsx b/src/components/HeroPixelField.tsx
@@ -14,7 +14,7 @@ import {
 } from '@/lib/etch'
 import { BANDS, loadMusic, music } from '@/lib/music'
 import type { Etch } from '@/lib/etch'
-import { wordGrid, WORD_COLUMNS, WORD_ROWS } from '@/lib/word-shade'
+import { wordGrid, WORD_BANDS, WORD_COLUMNS, WORD_ROWS } from '@/lib/word-shade'
 
 export type FieldGlyph = {
   rows: readonly string[]
@@ -124,27 +124,9 @@ function wordWasHeld() {
   return heldAnswer
 }
 
-const LASER_BANDS = [
-  'crest',
-  'crest',
-  'crest',
-  'crest',
-  'hover',
-  'hover',
-  'hover',
-  'lit',
-  'lit',
-  'lit',
-  'lit',
-  'mid',
-  'mid',
-  'mid',
-  'dim',
-  'dim',
-  'dim',
-  'dim',
-  'dim',
-] as const
+const LASER_BANDS = (['crest', 'hover', 'lit', 'mid', 'dim'] as const).flatMap(
+  (name, i) => Array<typeof name>(WORD_BANDS[i]).fill(name),
+)
 
 /** How much of a band's height a beat adds, and how fast that fades. */
 const BEAT_REACH = 0.8
